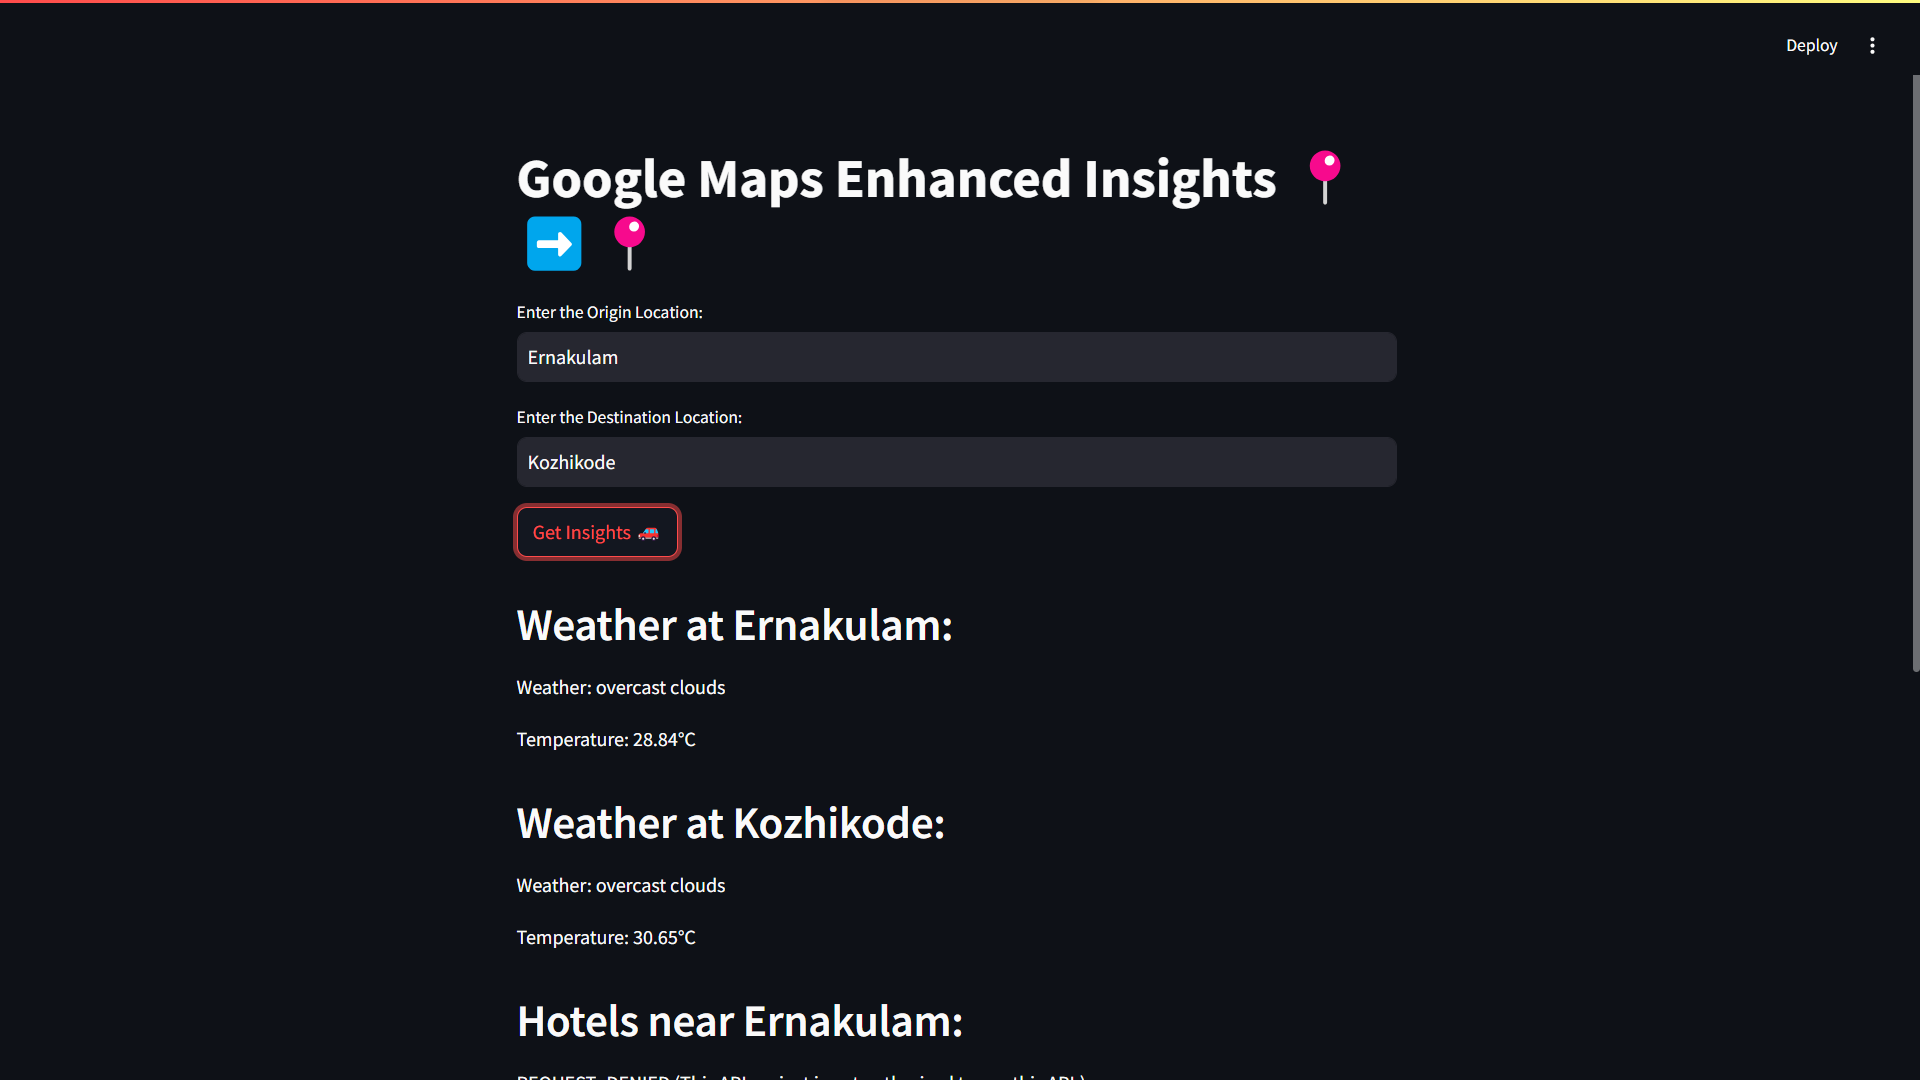
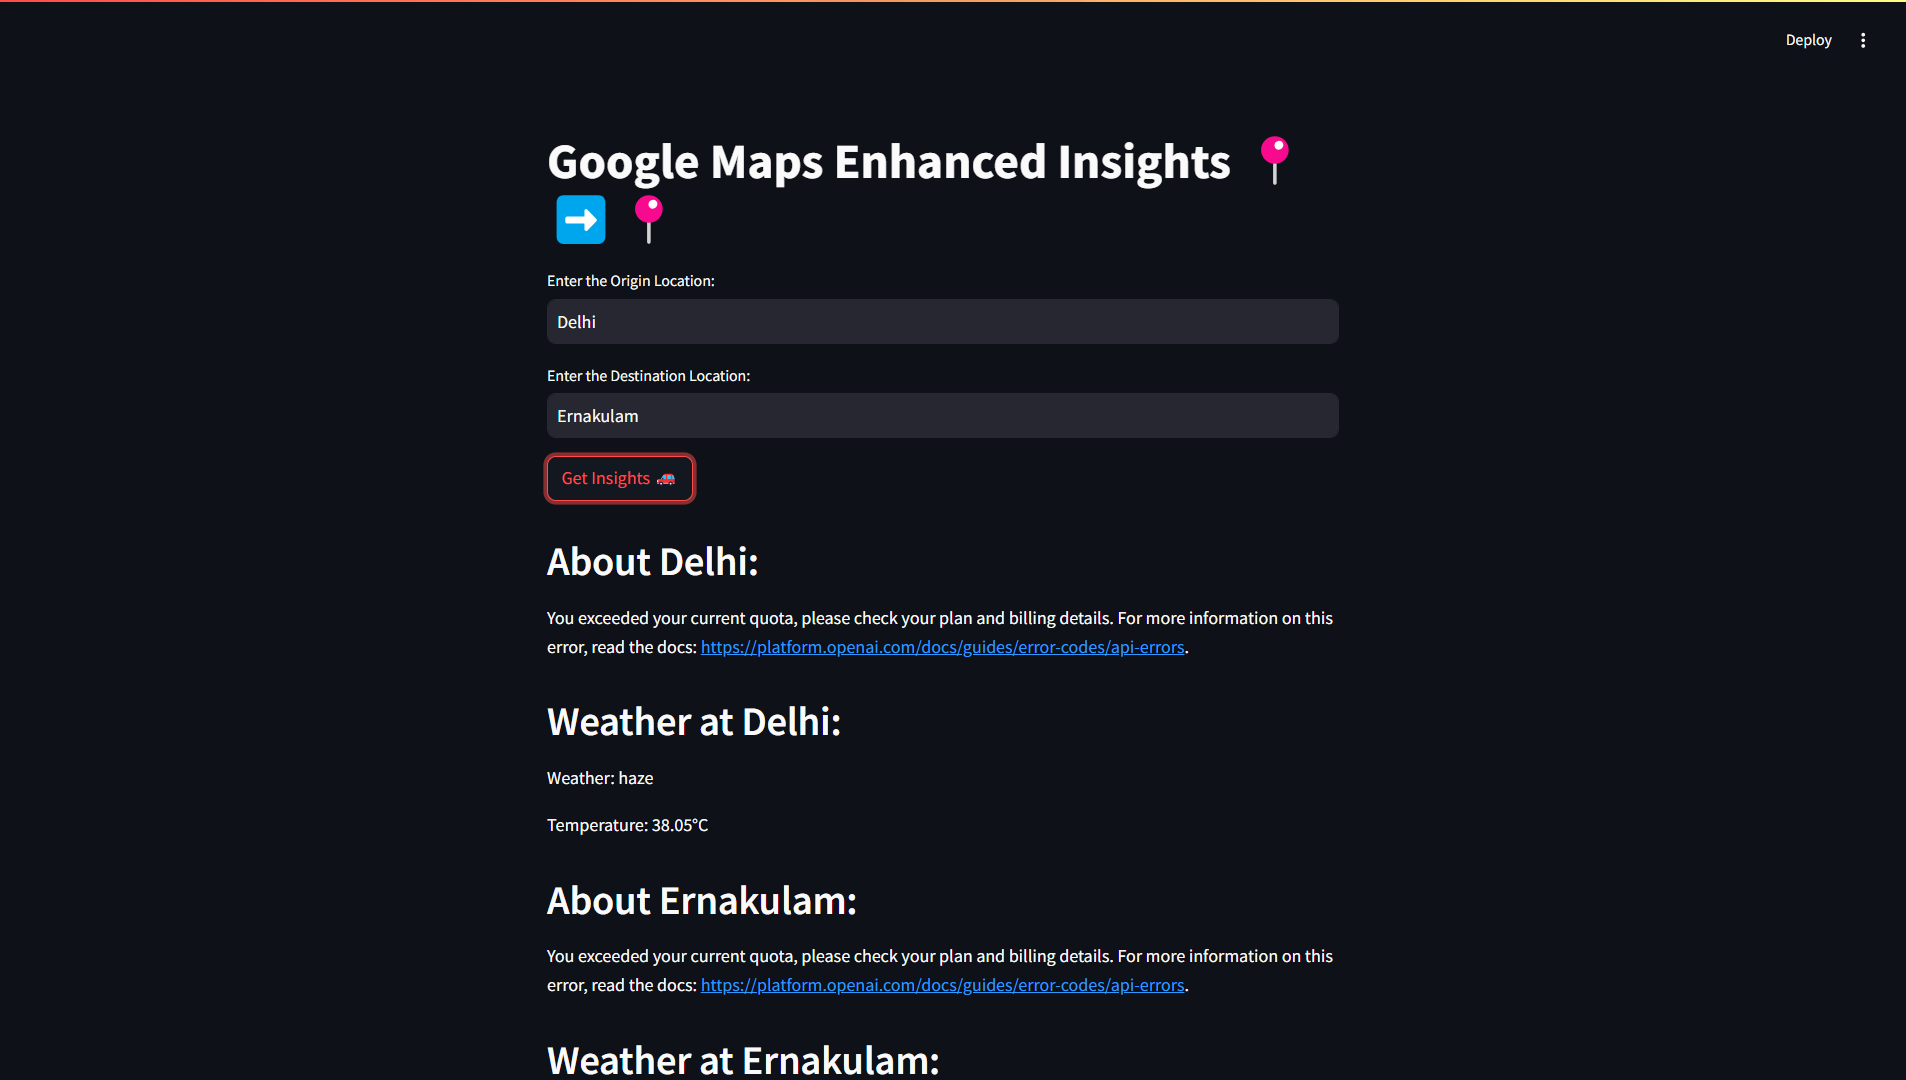
Update : Lsf

Changed region(s): [[0.2476, 0.1222, 0.7429, 1.0], [0.9906, 0.0611, 1.0, 0.6417], [0.9286, 0.0306, 0.9596, 0.0611]]

diff --git a/app.py b/app.py
@@ -1,16 +1,18 @@
-
-import streamlit as st
-from dotenv import load_dotenv
+import streamlit as st # type: ignore
+from dotenv import load_dotenv # type: ignore
 import os
-import googlemaps
-import requests
+import googlemaps # type: ignore
+import requests # type: ignore
+import openai # type: ignore
 
 # Load environment variables
 load_dotenv()
 
-# Configure Google Maps client
+# Configure API clients
 gmaps = googlemaps.Client(key=os.getenv("GOOGLE_MAPS_API_KEY"))
 weather_api_key = os.getenv("WEATHER_API_KEY")
+openai_api_key = os.getenv("OPENAI_API_KEY")
+openai.api_key = openai_api_key
 
 # Function to calculate distance and duration between two locations
 def get_distance(origin, destination):
@@ -55,6 +57,22 @@ def get_places(location, place_type):
     except Exception as e:
         return [str(e)]
 
+# Function to get place description using OpenAI API
+def get_place_description(place_name):
+    try:
+        response = openai.ChatCompletion.create(
+            model="gpt-3.5-turbo",
+            messages=[
+                {"role": "system", "content": "You are a helpful assistant."},
+                {"role": "user", "content": f"Provide a brief description of {place_name} including famous landmarks."}
+            ],
+            max_tokens=50
+        )
+        description = response.choices[0].message['content'].strip()
+        return description
+    except Exception as e:
+        return str(e)
+
 # Streamlit UI
 st.title("Google Maps Enhanced Insights 📍➡📍")
 
@@ -71,31 +89,42 @@ if st.button("Get Insights 🚗"):
         hotels_destination = get_places(destination, "lodging")
         restaurants_destination = get_places(destination, "restaurant")
 
-        if distance and duration:
-            st.markdown("## Distance and Duration:")
-            st.write(f"Distance: {distance}")
-            st.write(f"Duration: {duration}")
+        origin_description = get_place_description(origin)
+        destination_description = get_place_description(destination)
 
+        st.markdown(f"## About {origin}:")
+        st.write(origin_description)
         if weather_origin_desc and weather_origin_temp:
             st.markdown(f"## Weather at {origin}:")
             st.write(f"Weather: {weather_origin_desc}")
             st.write(f"Temperature: {weather_origin_temp}°C")
 
+        st.markdown(f"## About {destination}:")
+        st.write(destination_description)
         if weather_dest_desc and weather_dest_temp:
             st.markdown(f"## Weather at {destination}:")
             st.write(f"Weather: {weather_dest_desc}")
             st.write(f"Temperature: {weather_dest_temp}°C")
 
-        st.markdown(f"## Hotels near {origin}:")
-        st.write(", ".join(hotels_origin))
+        if distance and duration:
+            st.markdown("## Distance and Duration:")
+            st.write(f"Distance: {distance}")
+            st.write(f"Duration: {duration}")
 
-        st.markdown(f"## Restaurants near {origin}:")
-        st.write(", ".join(restaurants_origin))
+        
+        st.markdown(f"\n\n##### Admin Instructions: Hiding Hotels,Restaurants and Weather at {origin} and {destination} Due to API Limitations")
+        
 
-        st.markdown(f"## Hotels near {destination}:")
-        st.write(", ".join(hotels_destination))
+        # st.markdown(f"## Hotels near {origin}:")
+        # st.write(", ".join(hotels_origin))
 
-        st.markdown(f"## Restaurants near {destination}:")
-        st.write(", ".join(restaurants_destination))
+        # st.markdown(f"## Restaurants near {origin}:")
+        # st.write(", ".join(restaurants_origin))
+
+        # st.markdown(f"## Hotels near {destination}:")
+        # st.write(", ".join(hotels_destination))
+
+        # st.markdown(f"## Restaurants near {destination}:")
+        # st.write(", ".join(restaurants_destination))
     else:
         st.error("Please enter both origin and destination locations.")
